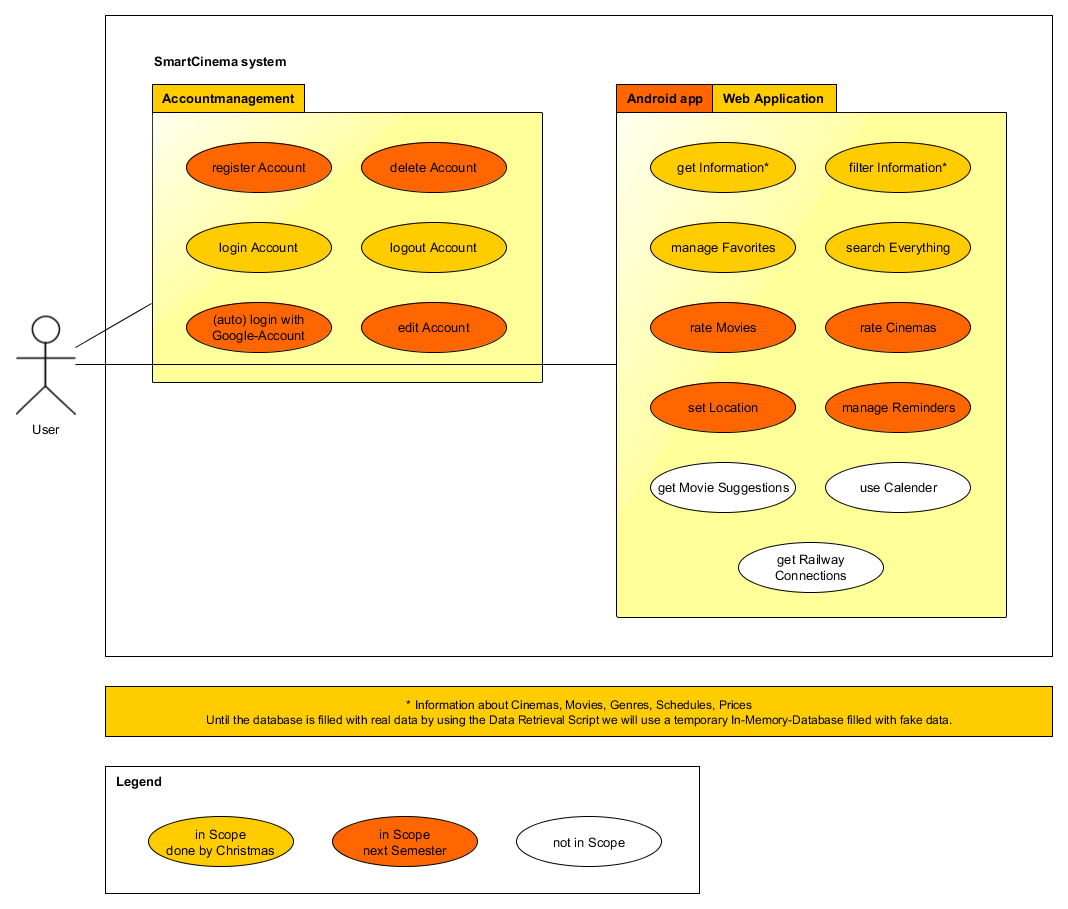
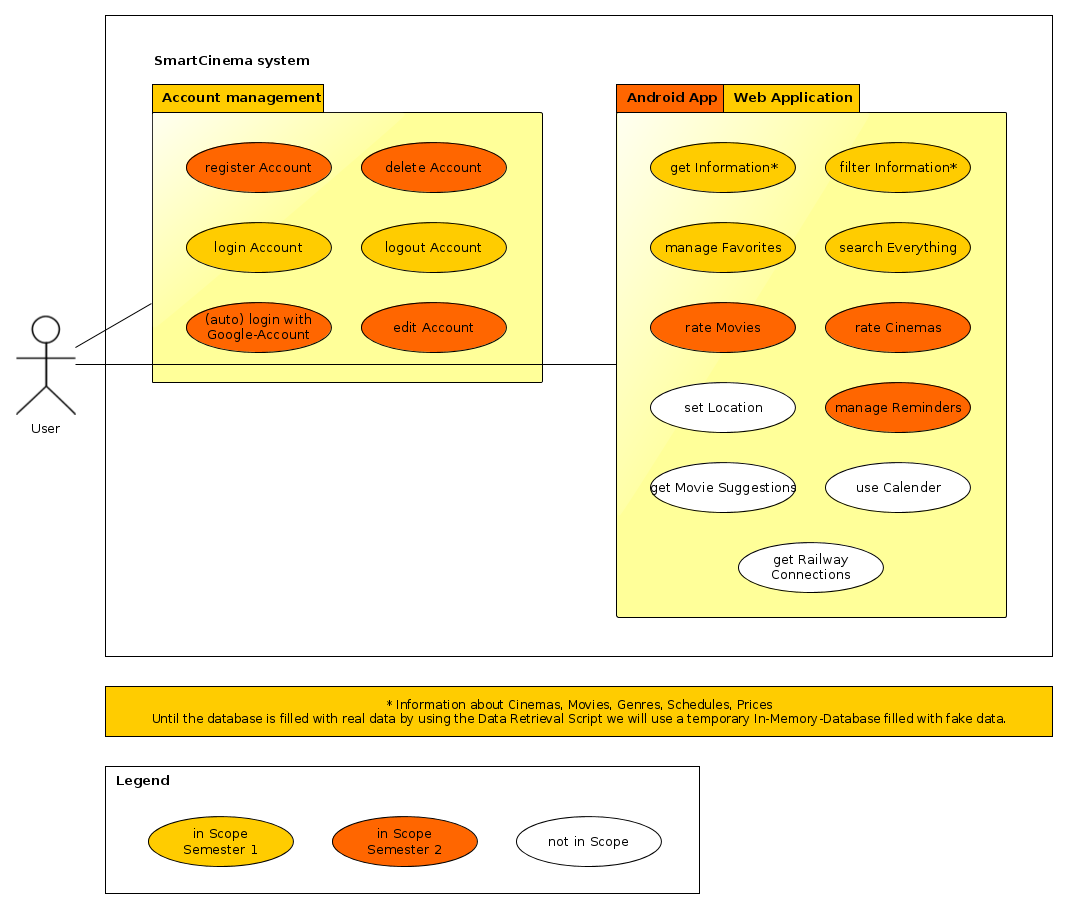
OUCD: Remove 'set Location' from scope
And make the link in the SRS relative.

TESB416-205

diff --git a/documents/SRS.md b/documents/SRS.md
@@ -198,4 +198,4 @@ You can find any internal linked sources in the chapter References (go to the to
 [blog]: https://smartcinemaproject.wordpress.com/
 [git]: https://git-scm.com/
 [github]: https://github.com/
-[oucd]: https://github.com/tinf15b4-kino/kino-web/blob/master/documents/UC/OUCD.png
+[oucd]: UC/OUCD.png
